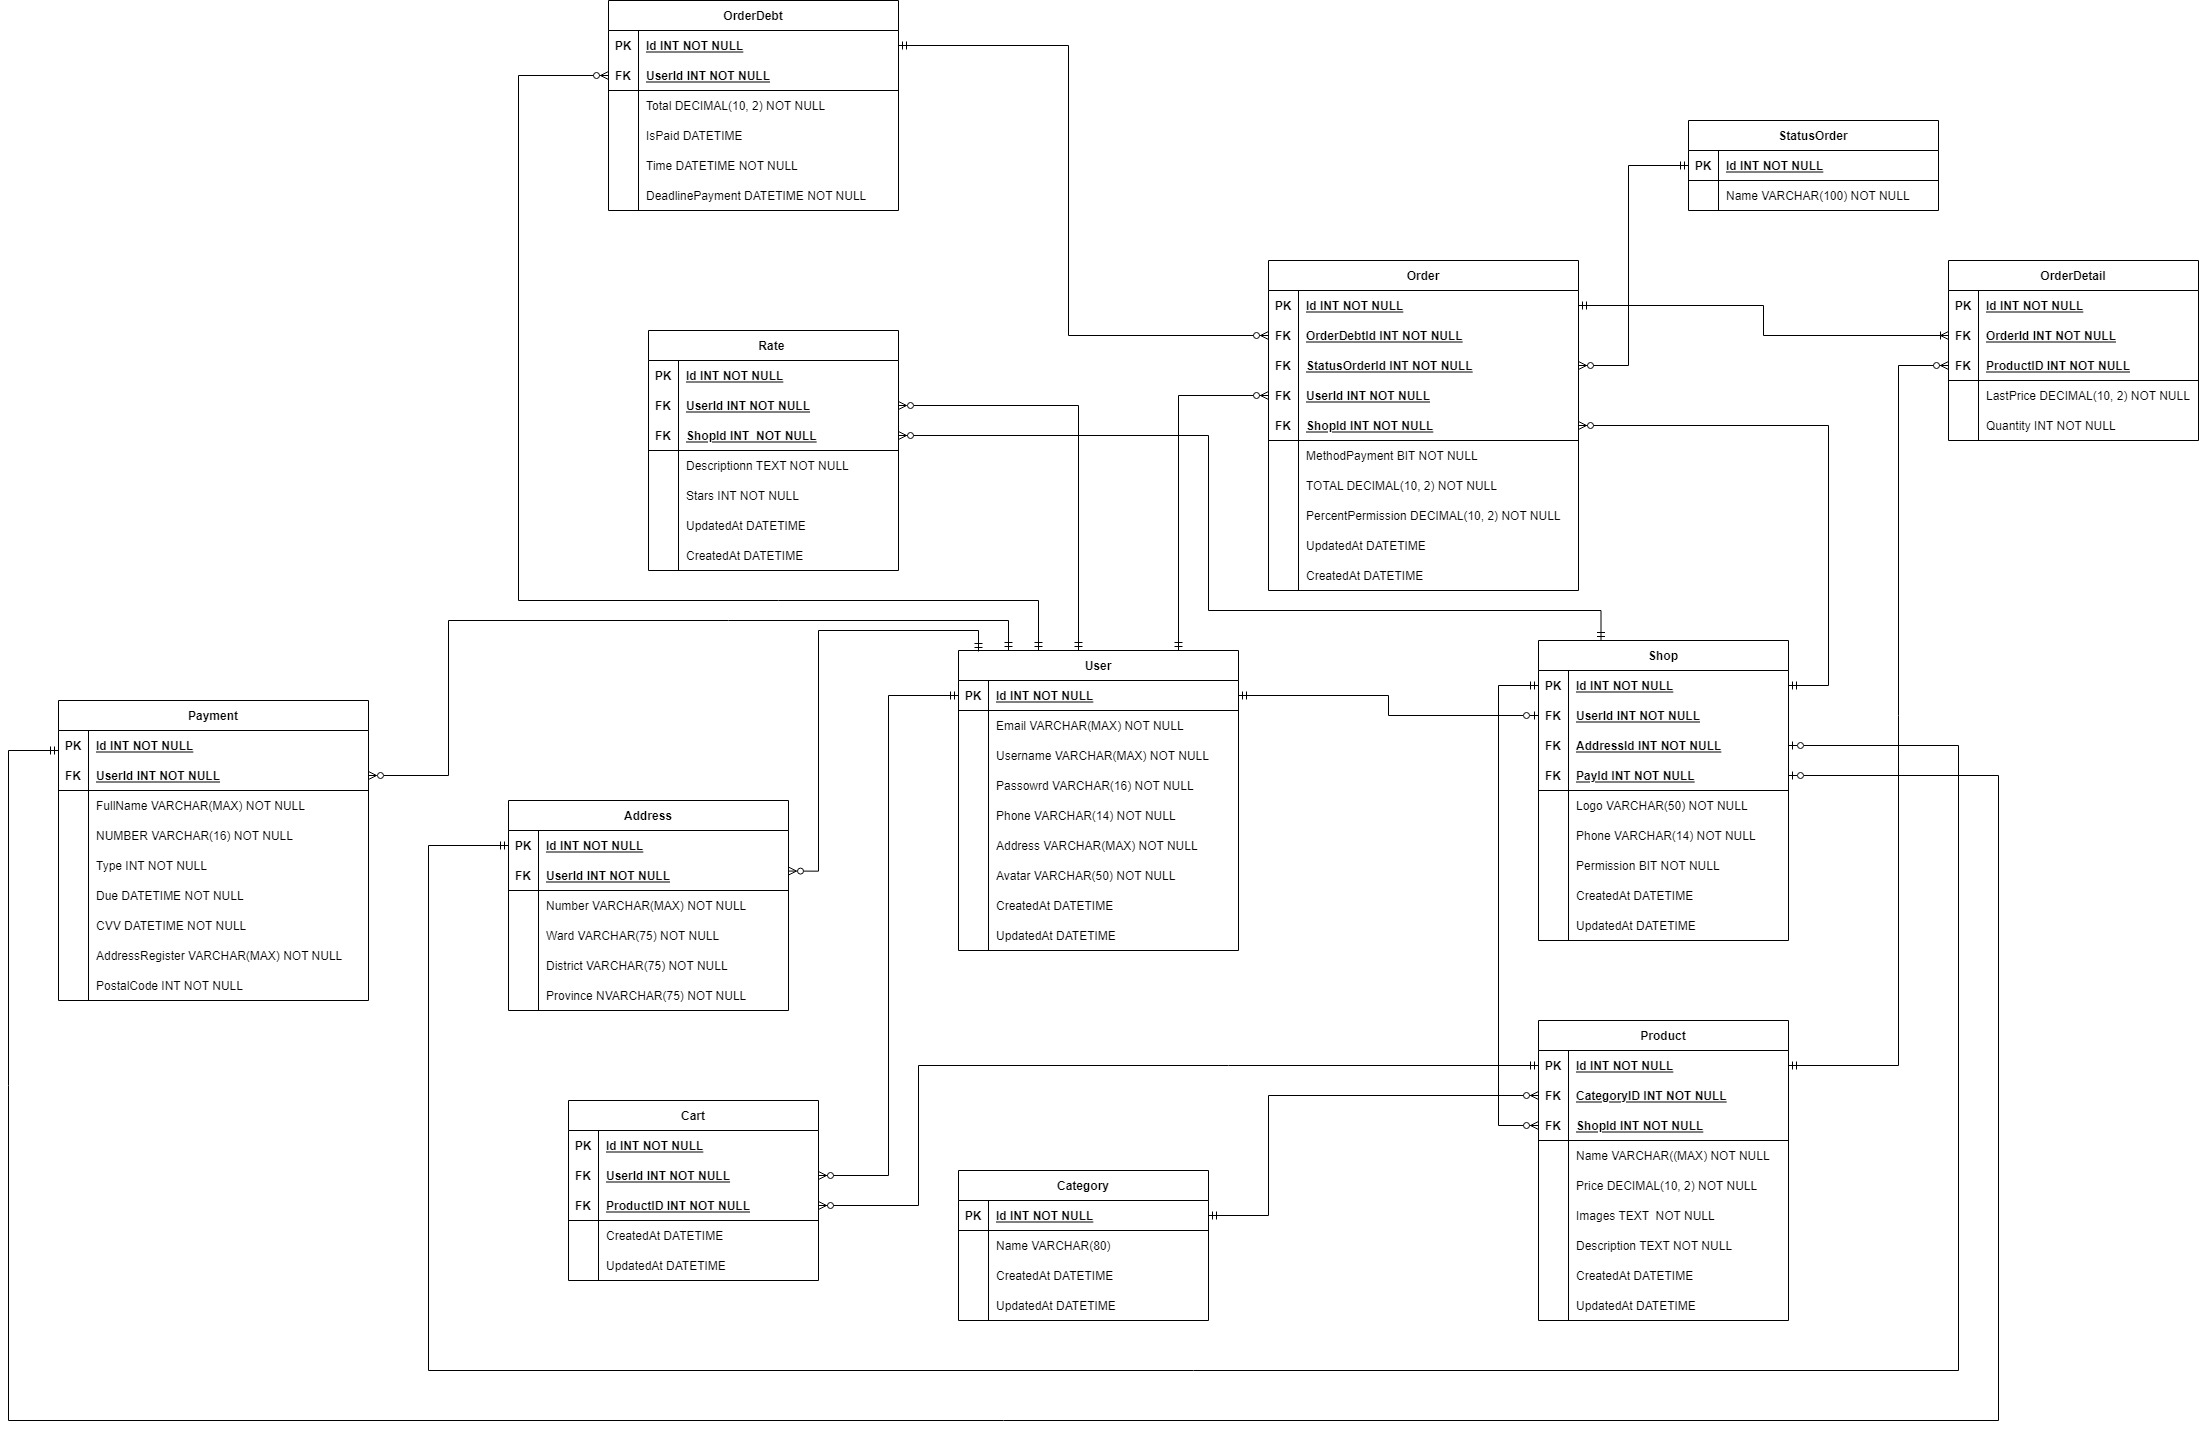
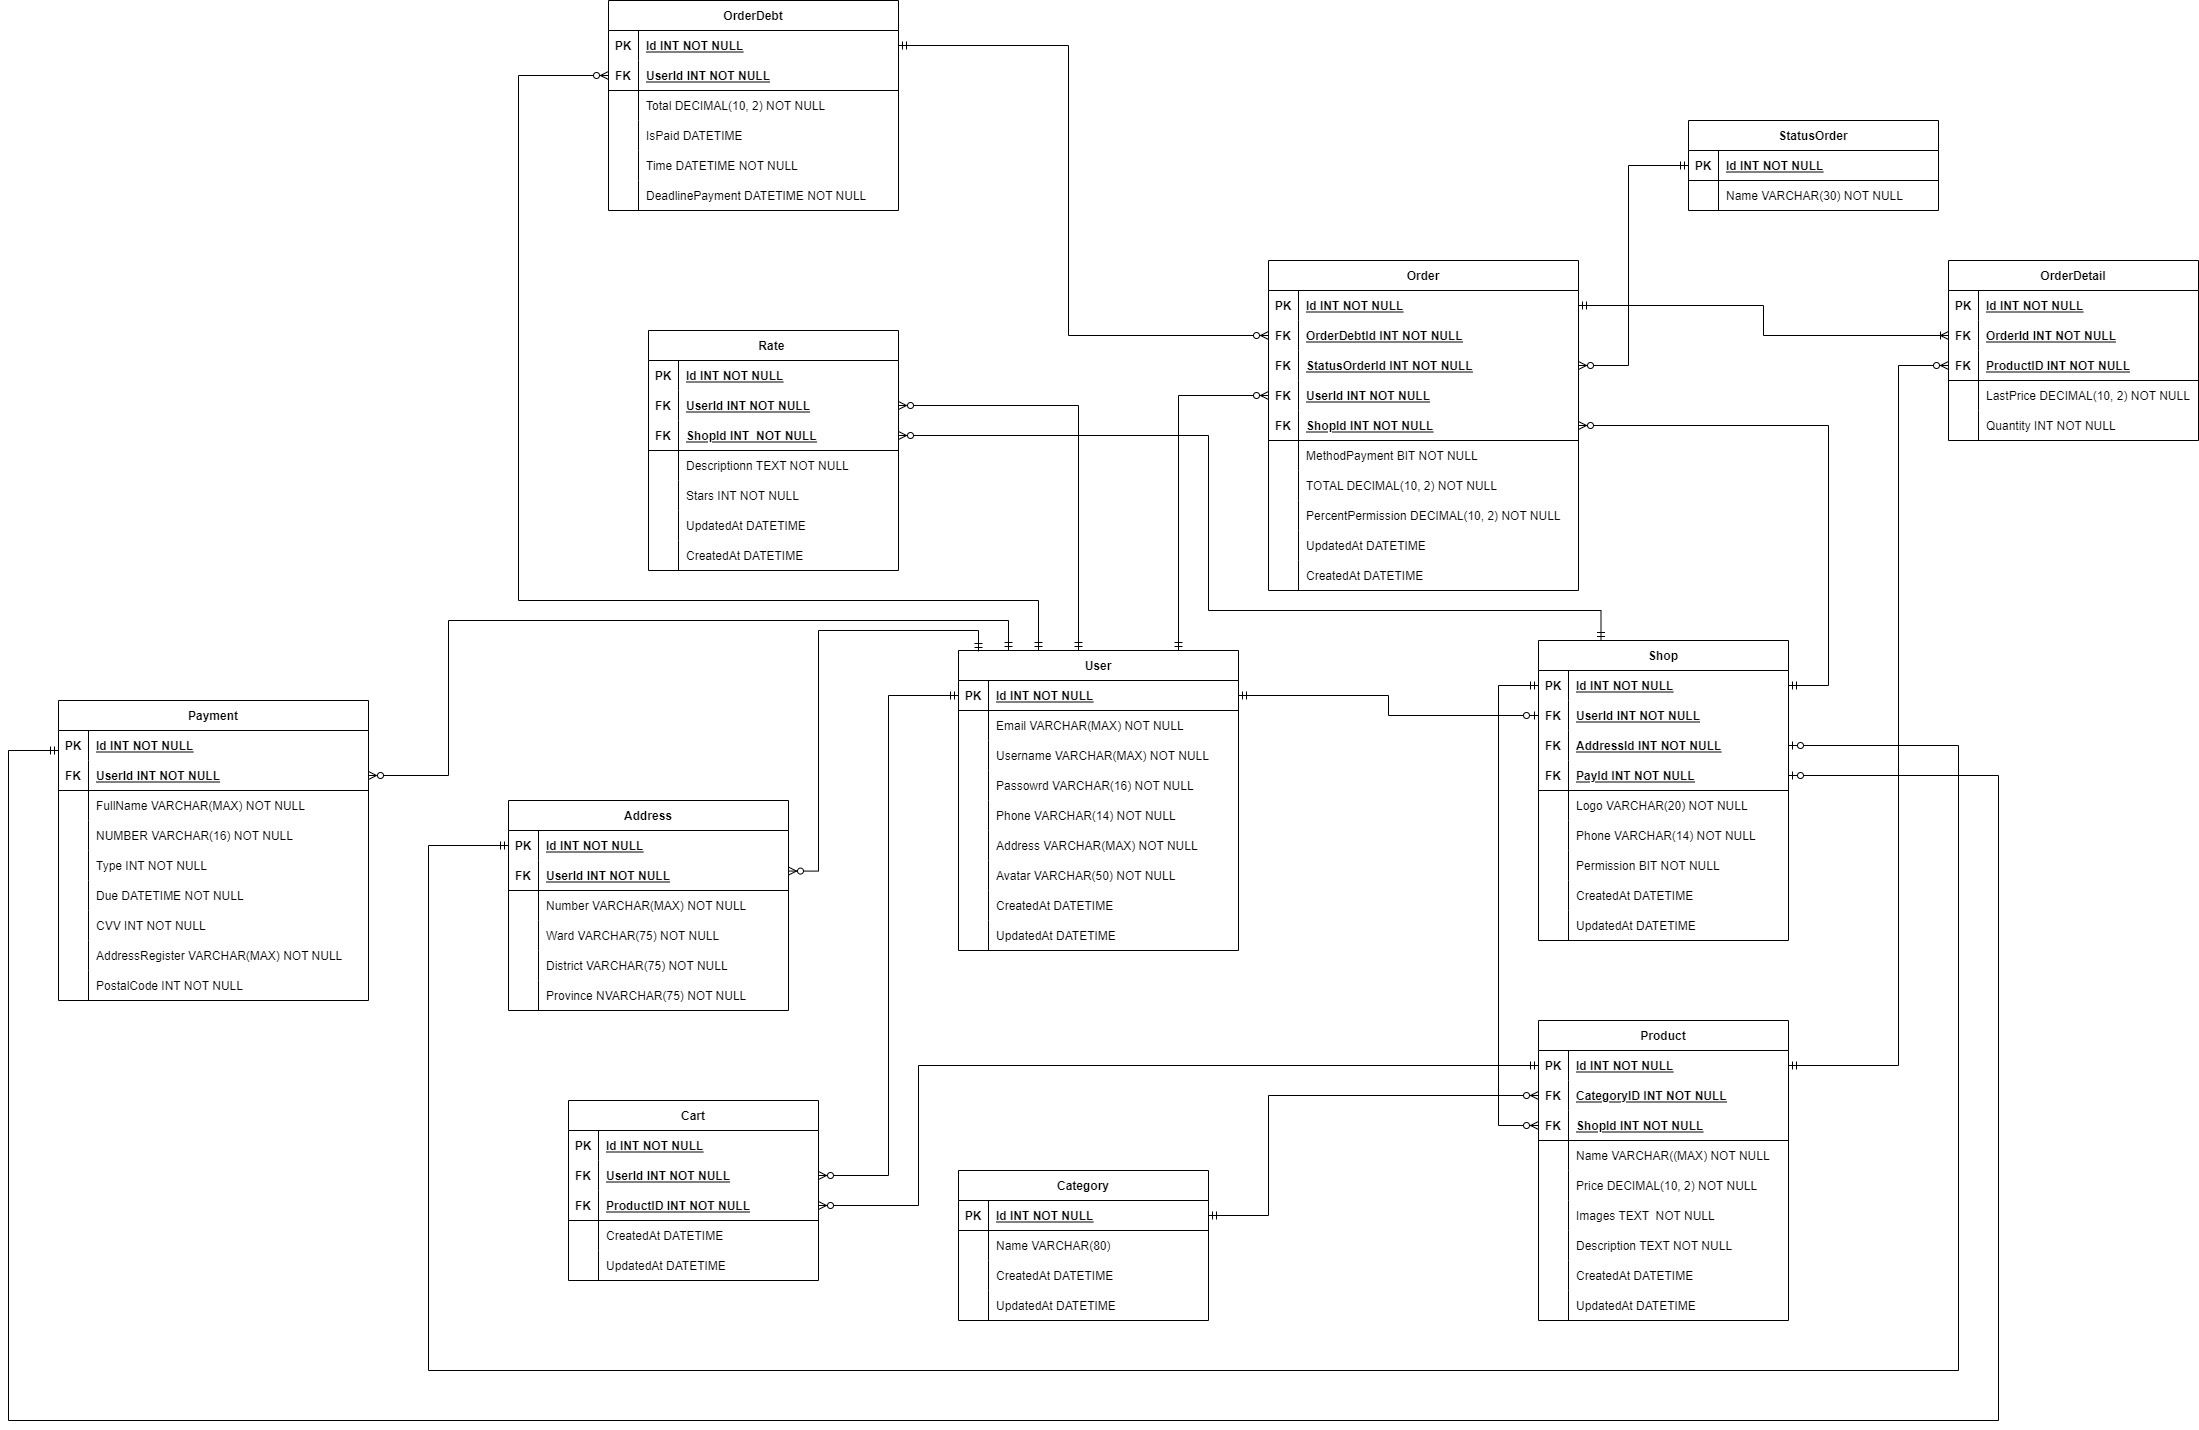
init database entity

diff --git a/P2P ver 2/src/main/java/com/apt/p2p/entity/User.java b/P2P ver 2/src/main/java/com/apt/p2p/entity/User.java
@@ -1,0 +1,60 @@
+package com.apt.p2p.entity;
+
+import com.sun.istack.NotNull;
+
+//import javax.persistence.*;
+import javax.persistence.*;
+import java.util.Date;
+import java.util.List;
+import javax.persistence.Entity;
+
+@Entity
+@Table(name = "User")
+public class User {
+    @Id
+    @GeneratedValue(strategy = GenerationType.IDENTITY)
+    private Integer id;
+
+    @NotNull
+    private String email;
+
+    @NotNull
+    private String userName;
+
+    @Column(length = 16)
+    @NotNull
+    private String password;
+
+    @Column(length = 14)
+    @NotNull
+    private String phone;
+
+    @Column(length = 20)
+    @NotNull
+    private String avatar;
+
+    private Date createdAt;
+
+    private Date updatedAt;
+
+    @OneToOne(mappedBy = "user", fetch = FetchType.LAZY)
+    private Shop shop;
+
+    @OneToMany(mappedBy = "user", fetch = FetchType.LAZY)
+    private List<Address> addresses;
+
+    @OneToMany(mappedBy = "user", fetch = FetchType.LAZY)
+    private List<Payment> payments;
+
+    @OneToMany(mappedBy = "user", fetch = FetchType.LAZY)
+    private List<Cart> carts;
+
+    @OneToMany(mappedBy = "user", fetch = FetchType.LAZY)
+    private List<Rate> rates;
+
+    @OneToMany(mappedBy = "user", fetch = FetchType.LAZY)
+    private List<Order> orders;
+
+    @OneToMany(mappedBy = "user", fetch = FetchType.LAZY)
+    private List<OrderDebt> orderDebts;
+}

diff --git a/P2P ver 2/src/main/java/com/apt/p2p/entity/Order.java b/P2P ver 2/src/main/java/com/apt/p2p/entity/Order.java
@@ -1,0 +1,53 @@
+package com.apt.p2p.entity;
+
+import com.sun.istack.NotNull;
+
+
+import javax.persistence.*;
+import java.util.Date;
+import java.util.List;
+
+@Entity
+@Table(name = "\"Order\"")
+public class Order {
+    @Id
+    @GeneratedValue(strategy = GenerationType.IDENTITY)
+    private Integer id;
+
+    @NotNull
+    private Boolean methodPayment;
+
+    @NotNull
+    private Double total;
+
+    @NotNull
+    private Double percentPermission;
+
+    @Transient
+    private Double debt;
+
+    private Date createdAt;
+
+    private Date updatedAt;
+
+    @NotNull
+    @ManyToOne(fetch = FetchType.LAZY)
+    @JoinColumn(name = "userId")
+    private User user;
+
+    @OneToMany(mappedBy = "order", fetch = FetchType.LAZY)
+    private List<OrderDetail> orderDetails;
+
+    @ManyToOne(fetch = FetchType.LAZY)
+    @JoinColumn(name = "statusOrderId")
+    private StatusOrder statusOrder;
+
+    @ManyToOne(fetch = FetchType.LAZY)
+    @JoinColumn(name = "shopId")
+    private Shop shop;
+
+
+    @ManyToOne(fetch = FetchType.LAZY)
+    @JoinColumn(name = "orderDeptId")
+    private OrderDebt orderDebt;
+}

diff --git a/P2P ver 2/src/main/java/com/apt/p2p/entity/Shop.java b/P2P ver 2/src/main/java/com/apt/p2p/entity/Shop.java
@@ -14,9 +14,6 @@ public class Shop {
     @GeneratedValue(strategy = GenerationType.IDENTITY)
     private Integer id;
 
-//    @OneToOne
-//    private User userId;
-
     @Column(length = 20)
     @NotNull
     private String logo;
@@ -31,12 +28,25 @@ public class Shop {
 
     private Date updatedAt;
 
+    @NotNull
+    @OneToOne(fetch = FetchType.LAZY)
+    @JoinColumn(name = "userId")
+    private User user;
+
     @OneToMany(mappedBy = "shop", fetch = FetchType.LAZY)
     private List<Product> products;
-//
-//    @OneToMany(mappedBy = "shopId", fetch = FetchType.LAZY)
-//    private List<Rate> rates;
-//
-//    @OneToMany(mappedBy = "shopId", fetch = FetchType.LAZY)
-//    private List<Order> orders;
+
+    @OneToOne(fetch = FetchType.LAZY)
+    @JoinColumn(name = "addressId")
+    private Address address;
+
+    @OneToOne(fetch = FetchType.LAZY)
+    @JoinColumn(name = "paymentId")
+    private Payment payment;
+
+    @OneToMany(mappedBy = "shop", fetch = FetchType.LAZY)
+    private List<Rate> rates;
+
+    @OneToMany(mappedBy = "shop", fetch = FetchType.LAZY)
+    private List<Order> orders;
 }

diff --git a/P2P ver 2/src/main/java/com/apt/p2p/entity/OrderDetail.java b/P2P ver 2/src/main/java/com/apt/p2p/entity/OrderDetail.java
@@ -3,26 +3,28 @@ package com.apt.p2p.entity;
 import com.sun.istack.NotNull;
 
 import javax.persistence.*;
-import java.util.Date;
 
 @Entity
-@Table(name = "Cart")
-public class Cart {
+@Table(name = "OrderDetail")
+public class OrderDetail {
     @Id
     @GeneratedValue(strategy=GenerationType.IDENTITY)
     private Integer id;
 
-    private Date createdAt;
-
-    private Date updatedAt;
+    @NotNull
+    private Double lastPrice;
 
     @NotNull
-    @ManyToOne(fetch = FetchType.LAZY)
-    @JoinColumn(name = "userId")
-    private User user;
+    private Integer quantity;
 
-    @NotNull
+    @Transient
+    private Double subtotal;
+
     @ManyToOne(fetch = FetchType.LAZY)
     @JoinColumn(name = "productId")
     private Product product;
+
+    @ManyToOne(fetch = FetchType.LAZY)
+    @JoinColumn(name = "orderId")
+    private Order order;
 }

diff --git a/P2P ver 2/src/main/java/com/apt/p2p/entity/Product.java b/P2P ver 2/src/main/java/com/apt/p2p/entity/Product.java
@@ -32,19 +32,17 @@ public class Product {
 
     private Date updatedAt;
 
-    //    @ManyToOne(fetch = FetchType.EAGER)
-//    @JoinColumn(name = "category_Id")
-//    private Category categoryId;
     @NotNull
     @ManyToOne(fetch = FetchType.EAGER)
     @JoinColumn(name = "shopId")
     private Shop shop;
 
-    // Not neccessary because we don't have business logic to find product -> carts
+//    Not neccessary because we don't have business logic to find product -> carts
 //    @OneToMany(mappedBy = "product", fetch = FetchType.LAZY)
 //    private List<Cart> carts;
-//    @OneToMany(mappedBy = "productId", fetch = FetchType.LAZY)
-//    private List<OrderDetail> orderDetails;
+
+    @OneToMany(mappedBy = "product", fetch = FetchType.LAZY)
+    private List<OrderDetail> orderDetails;
 
     @NotNull
     @ManyToOne

diff --git a/P2P ver 2/src/main/java/com/apt/p2p/entity/Payment.java b/P2P ver 2/src/main/java/com/apt/p2p/entity/Payment.java
@@ -1,0 +1,44 @@
+package com.apt.p2p.entity;
+
+import com.sun.istack.NotNull;
+
+import javax.persistence.*;
+import java.util.Date;
+
+@Entity
+@Table(name = "Payment")
+public class Payment {
+    @Id
+    @GeneratedValue(strategy=GenerationType.IDENTITY)
+    private Integer id;
+
+    @NotNull
+    private String fullname;
+
+    @NotNull
+    @Column(length = 16)
+    private String number;
+
+    @NotNull
+    private  Integer type;
+
+    @NotNull
+    private Date due;
+
+    @NotNull
+    private Integer cvv;
+
+    @NotNull
+    private String addressRegister;
+
+    @NotNull
+    private Integer postalCode;
+
+    @NotNull
+    @ManyToOne(fetch = FetchType.LAZY)
+    @JoinColumn(name = "userId")
+    private User user;
+
+    @OneToOne(mappedBy = "payment", fetch = FetchType.LAZY)
+    private Shop shop;
+}

diff --git a/P2P ver 2/src/main/java/com/apt/p2p/entity/Rate.java b/P2P ver 2/src/main/java/com/apt/p2p/entity/Rate.java
@@ -2,15 +2,23 @@ package com.apt.p2p.entity;
 
 import com.sun.istack.NotNull;
 
+
 import javax.persistence.*;
 import java.util.Date;
 
 @Entity
-@Table(name = "Cart")
-public class Cart {
+@Table(name = "Rate")
+public class Rate {
     @Id
-    @GeneratedValue(strategy=GenerationType.IDENTITY)
+    @GeneratedValue(strategy = GenerationType.IDENTITY)
     private Integer id;
+
+    @Column(columnDefinition="TEXT")
+    @NotNull
+    private String description;
+
+    @NotNull
+    private Integer star;
 
     private Date createdAt;
 
@@ -21,8 +29,7 @@ public class Cart {
     @JoinColumn(name = "userId")
     private User user;
 
-    @NotNull
     @ManyToOne(fetch = FetchType.LAZY)
-    @JoinColumn(name = "productId")
-    private Product product;
+    @JoinColumn(name = "shopId")
+    private Shop shop;
 }

diff --git a/P2P ver 2/src/main/java/com/apt/p2p/entity/OrderDebt.java b/P2P ver 2/src/main/java/com/apt/p2p/entity/OrderDebt.java
@@ -1,0 +1,36 @@
+package com.apt.p2p.entity;
+
+import com.sun.istack.NotNull;
+
+
+import javax.persistence.*;
+import javax.persistence.criteria.CriteriaBuilder;
+import java.util.Date;
+import java.util.List;
+
+@Entity
+@Table(name = "OrderDebt")
+public class OrderDebt {
+    @Id
+    @GeneratedValue(strategy=GenerationType.IDENTITY)
+    private Integer id;
+
+    @NotNull
+    private Double total;
+
+    private Date isPaid = null;
+
+    @NotNull
+    private Date time;
+
+    @NotNull
+    private Date deadlinePayment;
+
+    @NotNull
+    @ManyToOne(fetch = FetchType.LAZY)
+    @JoinColumn(name = "userId")
+    private User user;
+
+    @OneToMany(mappedBy = "orderDebt", fetch = FetchType.LAZY)
+    private List<Order> orders;
+}

diff --git a/P2P ver 2/src/main/java/com/apt/p2p/entity/Address.java b/P2P ver 2/src/main/java/com/apt/p2p/entity/Address.java
@@ -1,0 +1,35 @@
+package com.apt.p2p.entity;
+
+import com.sun.istack.NotNull;
+
+import javax.persistence.*;
+import java.util.Date;
+
+@Entity
+@Table(name = "Address")
+public class Address {
+    @Id
+    @GeneratedValue(strategy=GenerationType.IDENTITY)
+    private Integer id;
+
+    @NotNull
+    @Column(length = 100)
+    private String number;
+
+    @NotNull
+    private String ward;
+
+    @NotNull
+    private  String district;
+
+    @NotNull
+    private String province;
+
+    @NotNull
+    @ManyToOne(fetch = FetchType.LAZY)
+    @JoinColumn(name = "userId")
+    private User user;
+
+    @OneToOne(mappedBy = "address", fetch = FetchType.LAZY)
+    private Shop shop;
+}

diff --git a/P2P ver 2/src/main/java/com/apt/p2p/entity/StatusOrder.java b/P2P ver 2/src/main/java/com/apt/p2p/entity/StatusOrder.java
@@ -1,0 +1,22 @@
+package com.apt.p2p.entity;
+
+import com.sun.istack.NotNull;
+
+
+import javax.persistence.*;
+import java.util.List;
+
+@Entity
+@Table(name = "StatusOrder")
+public class StatusOrder {
+    @Id
+    @GeneratedValue(strategy = GenerationType.IDENTITY)
+    private Integer id;
+
+    @NotNull
+    @Column(length = 30)
+    private String name;
+
+    @OneToMany(mappedBy = "statusOrder", fetch = FetchType.LAZY)
+    private List<Order> orders;
+}
